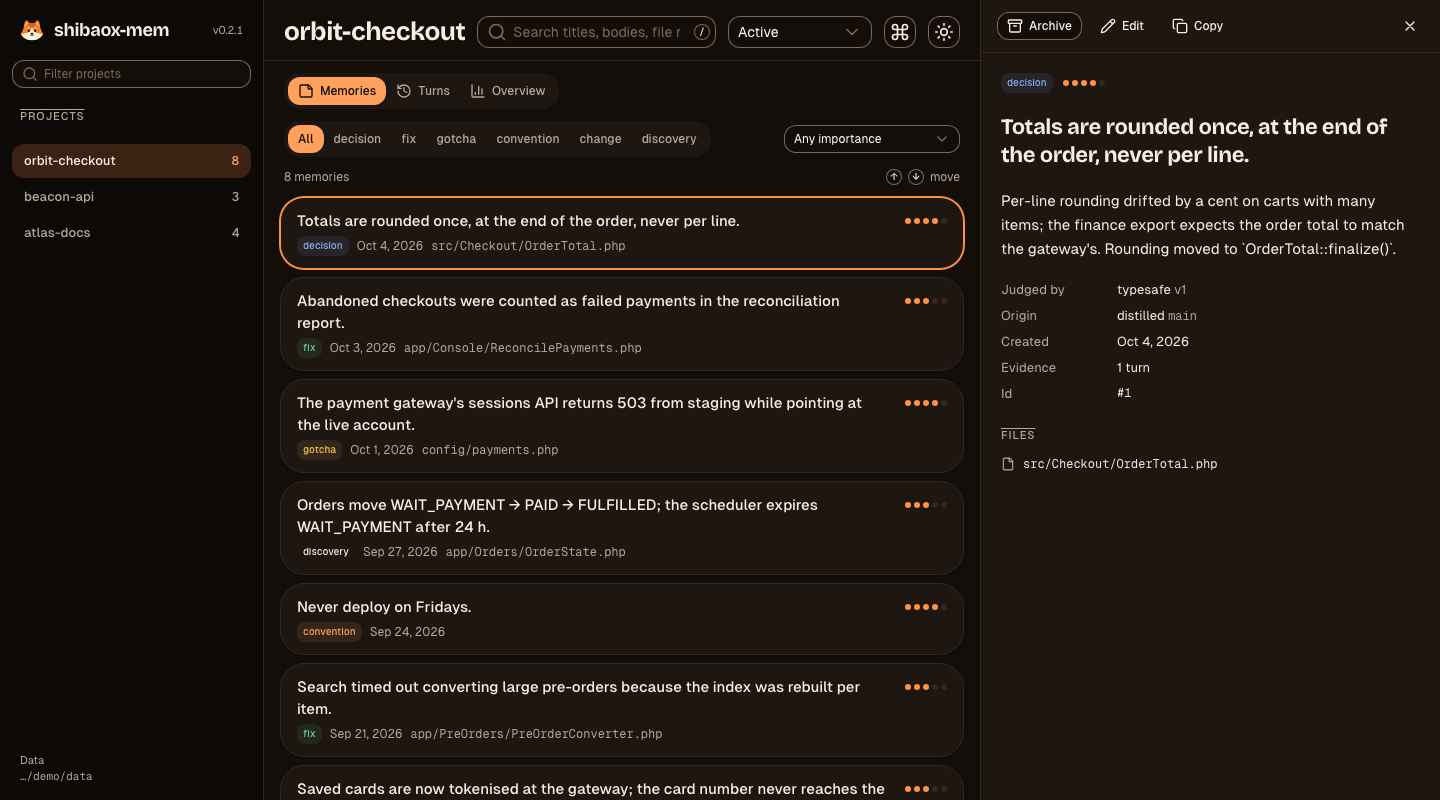
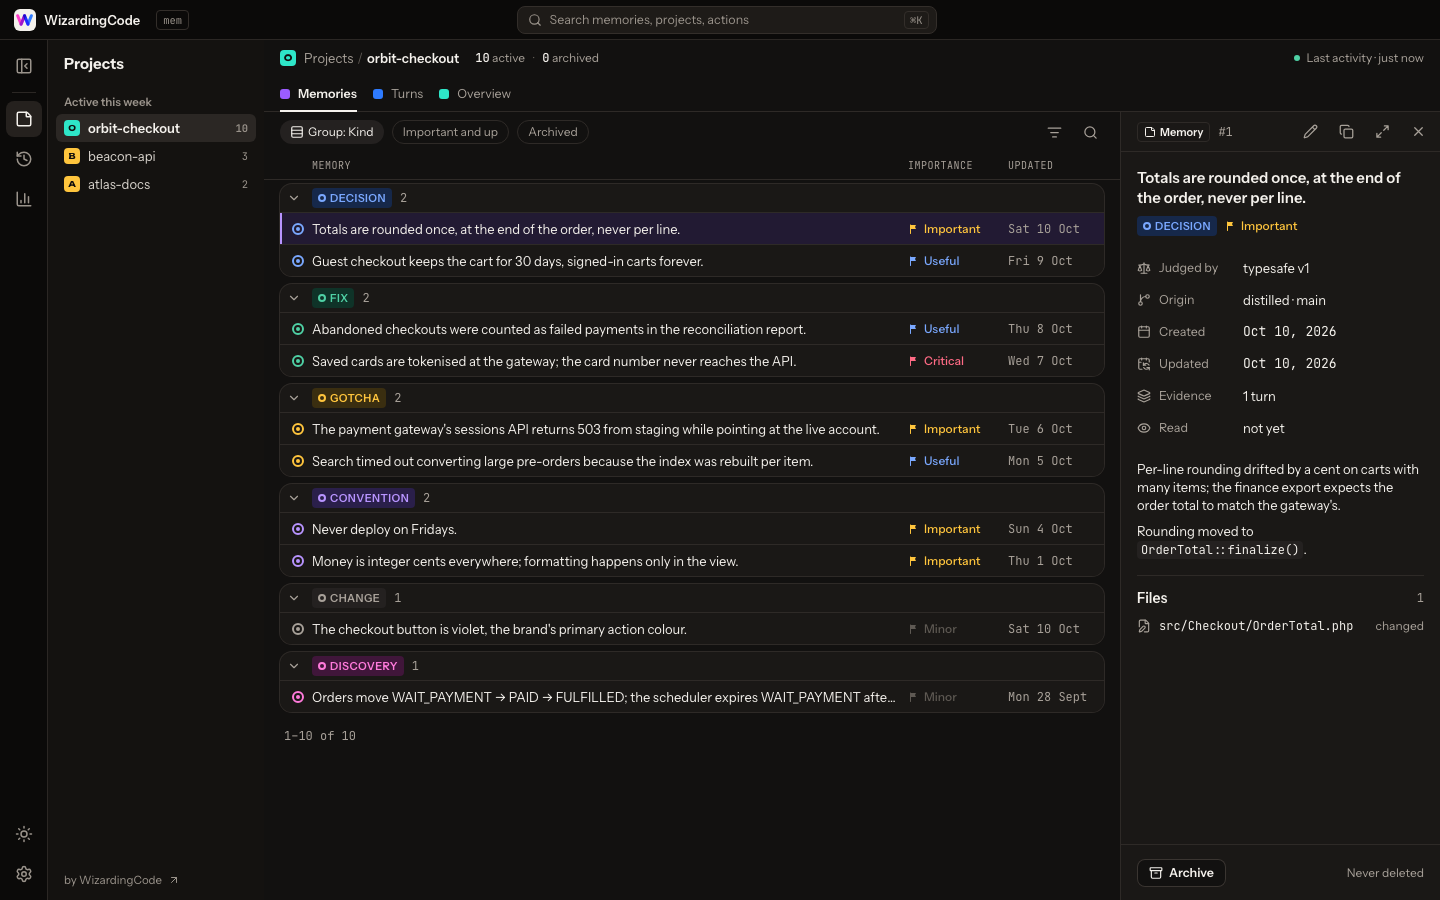
README: install, place by place and system by system; the viewer as it is now
Install is organised by where you work (Claude Code, Claude Desktop's Cowork and Code tab,
its chat, Codex, Gemini CLI, OpenCode, Cursor) with each step spelled out, then how to get
the binary on macOS, Linux and Windows, then how to check it. The viewer section and the
screenshots (fictional demo data) show the current app; the commands and agents tables
include Claude Desktop.

diff --git a/README.md b/README.md
@@ -55,32 +55,47 @@ The numbers are measured, not promised: see the [decision records](docs/adr/) fo
 
 ## Install
 
-wizardingcode-mem is installed from inside your agent, the way that agent installs anything else. The plugin fetches the binary for your platform on its first session (checksum verified) and keeps one copy for all agents in `~/.wizardingcode/mem/bin`.
+Install it once in each place you work. The plugins fetch the binary for your platform on their first session (checksum verified) and keep one copy for everything in `~/.wizardingcode/mem/bin`; every agent and app then shares the same memory.
+
+### Where you work → what to do
 
 <table>
-<tr><td width="140"><strong>Claude Code</strong></td><td>
+<tr><th align="left" width="220">Where</th><th align="left">How</th></tr>
+
+<tr><td><strong>Claude Code</strong><br><sub>terminal, VS Code, JetBrains</sub></td><td>
 
 ```sh
 claude plugin marketplace add WizardingCode-io/wizardingcode-plugins
 claude plugin install wizardingcode-mem@wizardingcode-plugins
 ```
 
+Start a new session. Captures and recalls on its own.
+
 </td></tr>
-<tr><td><strong>Claude Desktop</strong></td><td>
 
-So that a design conversation in the app and the coding session in the repository share one memory:
+<tr><td><strong>Claude Desktop</strong><br><sub>Cowork and the Code tab</sub></td><td>
 
-1. In Claude Desktop, open **Customize → Plugins → Add marketplace**, enter `WizardingCode-io/wizardingcode-plugins` and add **wizardingcode-mem**. Cowork tasks then capture and recall as Claude Code does, and the plugin follows your account to Claude Code.
-2. For the chat, which runs no plugin hooks or local servers, register the memory server once:
+1. Open **Customize → Plugins → + Add → Add marketplace → Add from a repository**.
+2. Paste `WizardingCode-io/wizardingcode-plugins` and confirm.
+3. In **Discover**, find **wizardingcode-mem** and select **Add**.
+
+The plugin is saved to your Claude account, so it also reaches Claude Code on any machine you sign in to. Cowork tasks capture and recall on their own.
+
+</td></tr>
+
+<tr><td><strong>Claude Desktop</strong><br><sub>chat</sub></td><td>
+
+The chat runs no plugin hooks, so it reaches the memory through its tools. With the binary on the machine ([step 2](#get-the-binary-for-claude-desktops-chat-and-cursor)):
 
 ```sh
 wizardingcode-mem install claude-desktop
 ```
 
-In the chat the memory spans every project: Claude searches across them, says which project each note is from, and names the project when it saves. Quit and reopen Claude Desktop afterwards.
+Quit Claude Desktop (⌘Q) and open it again. In the chat the memory spans every project: Claude searches it when you talk about one of your projects, says which project each note is from, and names the project when it saves. The first time it uses each tool, choose **Always allow**, or set the four tools to *Always allow* in **Settings → Connectors → wizardingcode-mem**.
 
 </td></tr>
-<tr><td><strong>Codex</strong></td><td>
+
+<tr><td><strong>Codex</strong><br><sub>CLI</sub></td><td>
 
 ```sh
 codex plugin marketplace add WizardingCode-io/wizardingcode-plugins
@@ -90,6 +105,7 @@ codex plugin add wizardingcode-mem@wizardingcode-plugins
 Codex reviews a plugin's hooks before running them: open `/hooks` once and accept the wizardingcode-mem entries.
 
 </td></tr>
+
 <tr><td><strong>Gemini CLI</strong></td><td>
 
 ```sh
@@ -97,6 +113,7 @@ gemini extensions install https://github.com/WizardingCode-io/wizardingcode-mem
 ```
 
 </td></tr>
+
 <tr><td><strong>OpenCode</strong></td><td>
 
 ```sh
@@ -104,39 +121,61 @@ opencode plugin wizardingcode-mem-opencode --global
 ```
 
 </td></tr>
+
 <tr><td><strong>Cursor</strong></td><td>
 
-The plugin is in [`plugins/cursor`](plugins/cursor). Add it from the Cursor marketplace once it is listed there, or import this repository as a plugin source.
+With the binary on the machine ([step 2](#get-the-binary-for-claude-desktops-chat-and-cursor)):
+
+```sh
+wizardingcode-mem install cursor
+```
 
 </td></tr>
 </table>
 
-Start a new session afterwards. That is all: memories are captured and shown from then on, and what Claude Code learns, Codex is told.
+### Get the binary (for Claude Desktop's chat and Cursor)
 
-<details>
-<summary><strong>Other ways in:</strong> the installer, Homebrew, npm</summary>
+If you have already installed a plugin above and started a session, the binary is already at `~/.wizardingcode/mem/bin/wizardingcode-mem` (`%USERPROFILE%\.wizardingcode\mem\bin\wizardingcode-mem.exe` on Windows); call it by that path. Otherwise, pick your system:
 
-<br>
+<table>
+<tr><td width="120"><strong>macOS</strong></td><td>
 
-For an agent without a plugin system, or a machine where you prefer to manage the binary yourself:
+```sh
+brew install wizardingcode-io/wizardingcode/wizardingcode-mem
+```
+
+or `curl -fsSL https://raw.githubusercontent.com/WizardingCode-io/wizardingcode-mem/main/scripts/install.sh | sh`
+
+</td></tr>
+<tr><td><strong>Linux</strong></td><td>
 
 ```sh
 curl -fsSL https://raw.githubusercontent.com/WizardingCode-io/wizardingcode-mem/main/scripts/install.sh | sh
 ```
 
-```sh
-brew install wizardingcode-io/wizardingcode/wizardingcode-mem && wizardingcode-mem install
-```
+or Homebrew, as on macOS
 
-```sh
+</td></tr>
+<tr><td><strong>Windows</strong></td><td>
+
+```powershell
 npx wizardingcode-mem install
 ```
 
-Each of these downloads the binary, checks its SHA-256 against the release's checksums, and runs `wizardingcode-mem install`, which writes the hooks into the configuration of every supported agent found on the machine (`wizardingcode-mem install claude-code` does one). It backs each file up first; `wizardingcode-mem uninstall <agent>` puts it back byte for byte. If an agent ends up with both this and the plugin, the plugin stands down, so you never hear things twice.
+needs Node.js 18 or later; or download `wizardingcode-mem-windows-x64.exe` from the [releases](https://github.com/WizardingCode-io/wizardingcode-mem/releases) and run it with `install`
 
-On Windows, download `wizardingcode-mem-windows-x64.exe` from the [releases](https://github.com/WizardingCode-io/wizardingcode-mem/releases) and run `wizardingcode-mem install`.
+</td></tr>
+</table>
 
-</details>
+Each of these checks the binary's SHA-256 against the release before using it. The curl script and `npx … install` also set up every supported agent and app they find; `wizardingcode-mem install <name>` does one (`claude-code`, `claude-desktop`, `codex`, `cursor`, `gemini`, `opencode`). Configuration files are backed up first, and `wizardingcode-mem uninstall <name>` puts them back. Where an agent has both the plugin and this direct install, the plugin stands down, so nothing is said twice.
+
+### Check it
+
+```sh
+wizardingcode-mem doctor
+```
+
+lists every agent and app it found, how each is installed, and what to do about anything missing. The viewer (`wizardingcode-mem ui`) shows the same under **Settings → Agents**.
 
 ## What your agent sees
 
@@ -155,7 +194,7 @@ instructions, and may be out of date: check the code before relying on them.
 </wizardingcode-mem-notes>
 ```
 
-The agent also gets three tools — `memory_search`, `memory_get` and `memory_save` — so it can look things up on its own, and keep something when you say "remember this".
+The agent also gets three tools — `memory_search`, `memory_get` and `memory_save` — so it can look things up on its own, and keep something when you say "remember this". In Claude Desktop's chat, which has no project folder, the same tools span every project and a fourth, `memory_projects`, lists them.
 
 ## How it works
 
@@ -180,9 +219,14 @@ Memories are kept as what they are: a title, a body of sentences that were actua
 wizardingcode-mem ui
 ```
 
-Opens a local page over your memories: every project with its counts, memories newest first or by the same search the agent uses, each in full with its files and the turn it came from. Press ⌘K for a command palette that searches every project at once. Edit a title, a body, a kind or an importance when the judge got it wrong; archive what you do not want shown and bring it back when you do. The **Turns** tab shows what each session did (prompt, answer, files, commands, errors) and which memories it left behind; **Overview** is the project's dashboard: what is stored, by kind and importance, eight weeks of activity, how fast the hooks have been. **Settings** is where the product is configured (below). Light and dark, keyboard first (`/`, ↑ ↓, Esc). It listens on the loopback only, behind a token in the URL, loads nothing from the network, and stops itself after half an hour without you or a tab.
+A local page over your memories, in WizardingCode's app design:
 
-It opens by itself when a session starts, in any agent — one viewer per machine, reused by every session, never a second tab — and stays closed under CI, over SSH, or when you turn that off.
+- **Memories** — a project's memories grouped by kind (or importance), with their importance, files, last update and how often agents read them. Open one in the side panel, or expand it to the whole window; edit a title, body, kind or importance when the judge got it wrong; archive what you do not want shown and bring it back.
+- **Turns** — every prompt and what it became, with filters (agent, status, source, period), sortable columns, a search over prompts and an export to CSV. Each turn opens with its prompt, files, commands, answer and the memories it left behind; Markdown is shown formatted.
+- **Overview** — the project's numbers and charts: memories and turns per week, by kind, by importance, and how fast the hooks have been.
+- **Settings** — agents, health, the judge, retention, storage, backups and the viewer, one page each.
+
+⌘K (or the search in the top bar) searches every project at once. Light and dark; `[` folds the projects panel, `1`–`4` switch views. It listens on the loopback only, behind a token in the URL, loads nothing from the network, and stops itself after half an hour without you or a tab. It opens by itself when a session starts, in any agent — one viewer per machine, never a second tab — and stays closed under CI, over SSH, or when you turn that off.
 
 ## Settings
 
@@ -218,7 +262,7 @@ The binary is at `~/.wizardingcode/mem/bin/wizardingcode-mem`; put that director
 | `wizardingcode-mem backup` · `--list` · `--restore <name>` | A copy to the configured folder or bucket, now; what is there; one of them back in place |
 | `wizardingcode-mem import claude-mem` | Brings memories over from claude-mem |
 | `wizardingcode-mem rejudge` | Asks TypeSafe to judge imported memories properly |
-| `wizardingcode-mem install <agent>` · `uninstall <agent>` | The direct install, for agents without a plugin system |
+| `wizardingcode-mem install [<name>]` · `uninstall <name>` | The direct install: every agent and app found, or one (`claude-code`, `claude-desktop`, `codex`, `cursor`, `gemini`, `opencode`) |
 
 ## TypeSafe, if you want it
 
@@ -255,8 +299,8 @@ The importer can only map claude-mem's types onto ours and give every memory of 
 | Agent | Installed as | Captures | Injects | Status |
 |---|---|---|---|---|
 | Claude Code | plugin, from the marketplace | hooks + transcript | session start, every prompt | in daily use |
-| Claude Desktop, Cowork | plugin, from the marketplace in the app | hooks | session start, every prompt | from the documentation; not yet run |
-| Claude Desktop, chat | MCP server in its config, across every project | `memory_save` | `memory_search` when Claude asks | verified with the tools; not yet in the app |
+| Claude Desktop, Cowork and Code tab | plugin, added in the app | hooks | session start, every prompt | Code tab in use; Cowork from the documentation |
+| Claude Desktop, chat | MCP server in its config, across every project | `memory_save` when Claude saves | `memory_search` when Claude asks | in use |
 | Codex | plugin, from the marketplace | hooks + rollout | session start, every prompt | verified up to the prompt; turn end as documented |
 | Gemini CLI | extension, from the release | hooks | session start, every prompt | verified at session start; turns as documented |
 | OpenCode | npm plugin | the plugin API | the system prompt | verified up to the prompt |
@@ -268,7 +312,7 @@ The importer can only map claude-mem's types onto ours and give every memory of 
 
 ```sh
 bun install
-bun run check      # typecheck, lint and 980+ tests, including end-to-end runs of the compiled binary
+bun run check      # typecheck, lint and 1,040+ tests, including end-to-end runs of the compiled binary
 bun run build      # the five release binaries, in dist/
 bun run plugins    # regenerates what each agent installs, from one definition
 ```
